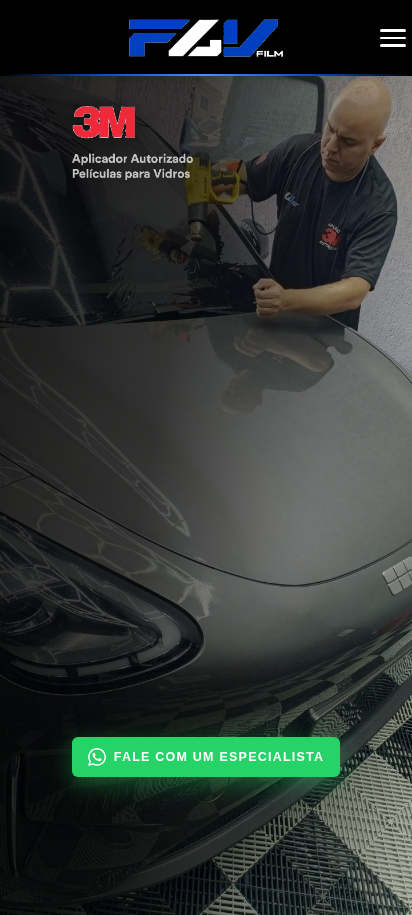
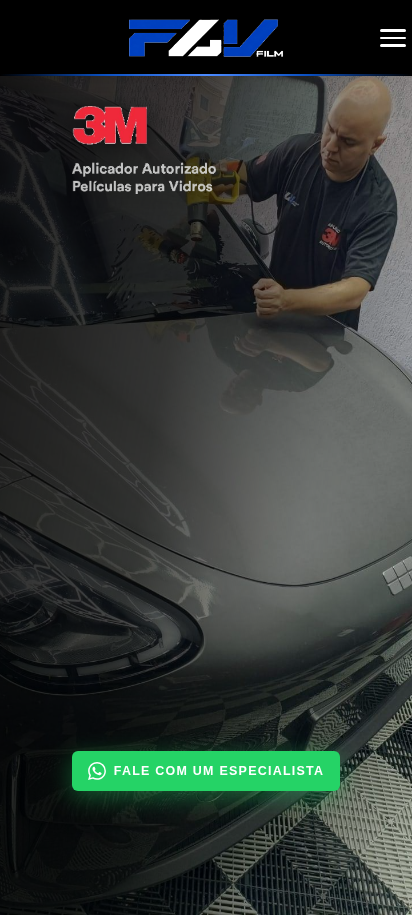
Add files via upload

Changed region(s): [[0.1748, 0.7956, 0.8447, 0.8874], [0.1748, 0.0918, 0.5243, 0.2142]]

diff --git a/style.css b/style.css
@@ -141,7 +141,7 @@ img { display: block; max-width: 100%; }
   line-height: 1; margin-bottom: 6px;
 }
 .hero-3m-big {
-  height: 130px; width: auto;
+  height: 150px; width: auto;
   filter: drop-shadow(0 4px 14px rgba(0,0,0,.6));
   display: block; margin-top: 0;
 }
@@ -794,7 +794,7 @@ img { display: block; max-width: 100%; }
   .hero-body { padding: 30px 20px 70px; }
   .hero-desktop-only { display: none; }
   .hero-mobile-only { display: block; }
-  .hero-3m-big { height: 74px; }
+  .hero-3m-big { height: 88px; }
   .btn-hero-wpp { width: 100%; justify-content: center; padding: 11px 16px; font-size: .78rem; gap: 8px; margin-top: 58vh; }
   .btn-hero-wpp svg { width: 18px; height: 18px; }
 
